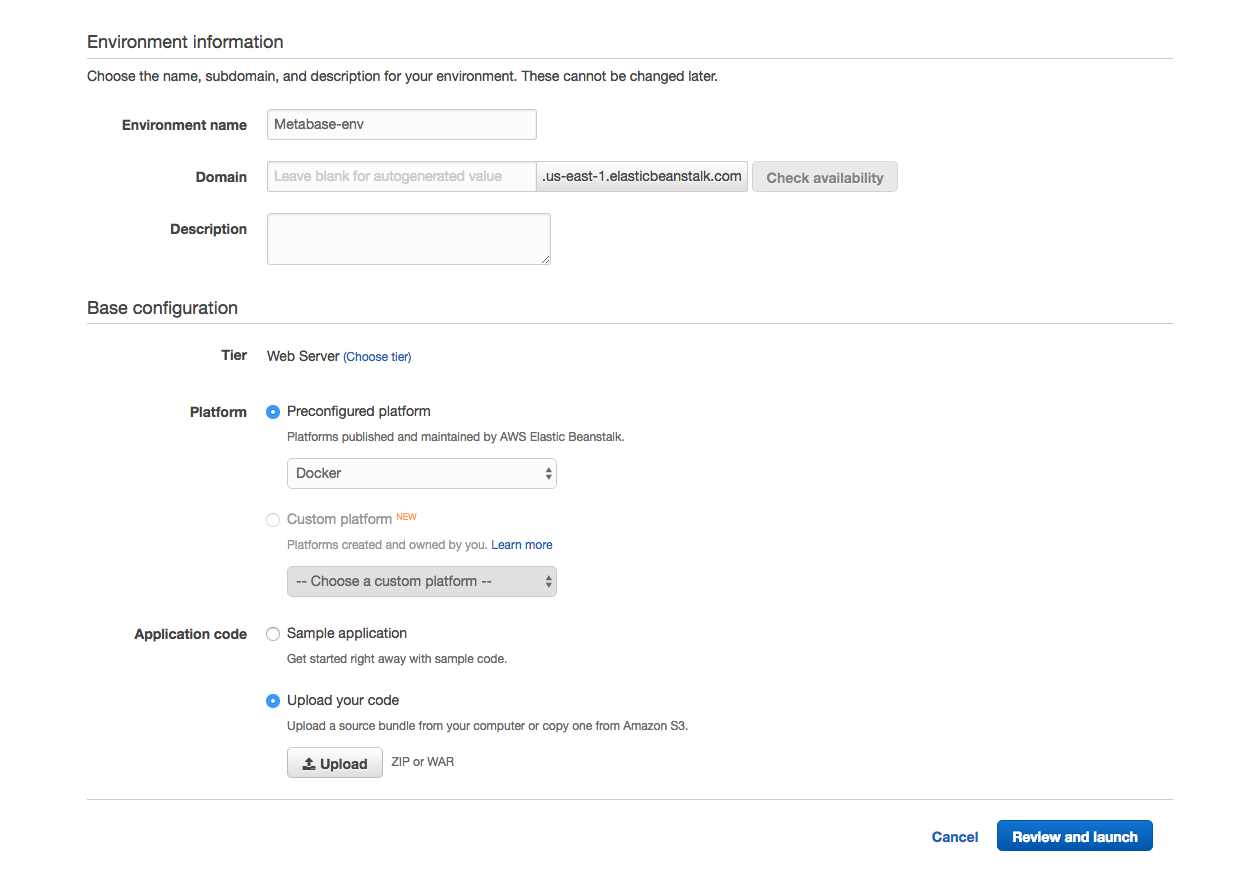
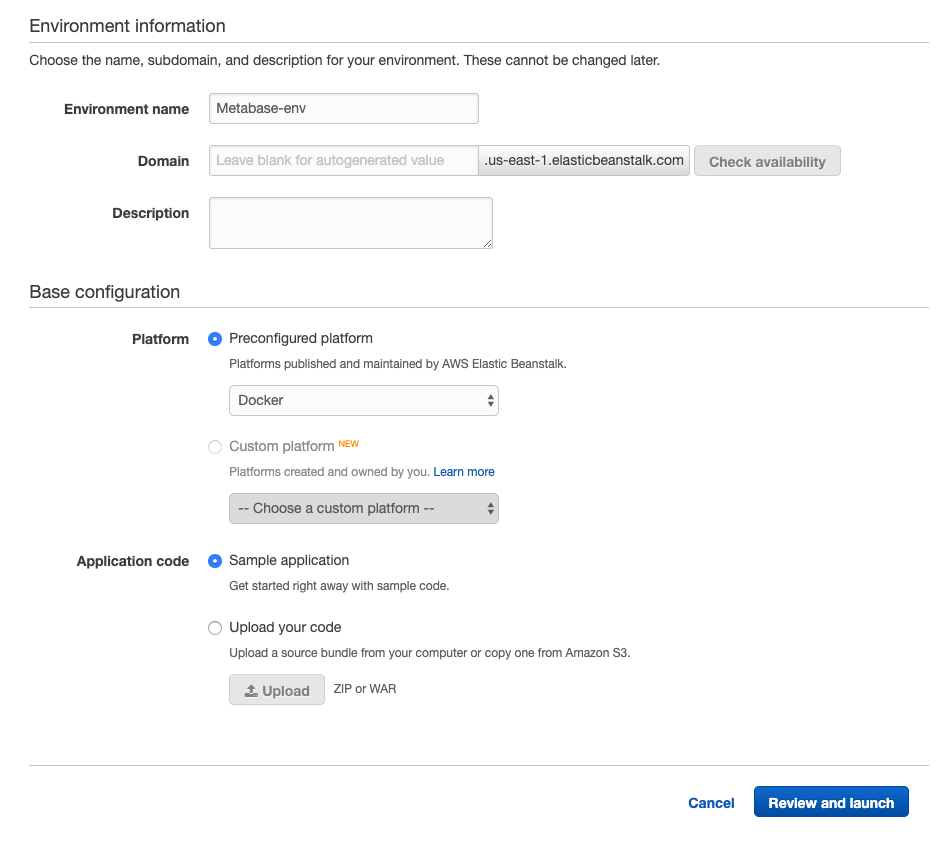
update elastic beanstalk docs (#10074)

diff --git a/docs/operations-guide/running-metabase-on-elastic-beanstalk.md b/docs/operations-guide/running-metabase-on-elastic-beanstalk.md
@@ -32,11 +32,11 @@ You should now see a screen that looks like
 
 NOTE: If this screenshot does not match what you see in the Elastic Beanstalk console, it is likely that you are on an old version of the Elastic Beanstalk UI. At the time of writing this documentation, both versions of the UI are being reported in the wild. You can view our older documentation [here](running-metabase-on-elastic-beanstalk-old.md)
 
-Elastic Beanstalk is organized into Applications and Environments, so to get started we must create a new Application.  Enter the application name `Metabase` and continue by clicking `Next`.
+While most of the fields are correctly prefilled by following the launch url above, "Sample Application" will be incorrectly selected. To run Metabase successfully, you'll need to click the radio button for "Upload your code".
+
+Elastic Beanstalk is organized into Applications and Environments, so to get started we must create a new Application. You can customize the application name here.
 
 ![Elastic Beanstalk ApplicationInformation](images/EBApplicationInformation.png)
-
-
 
 ### Environment Information
 
